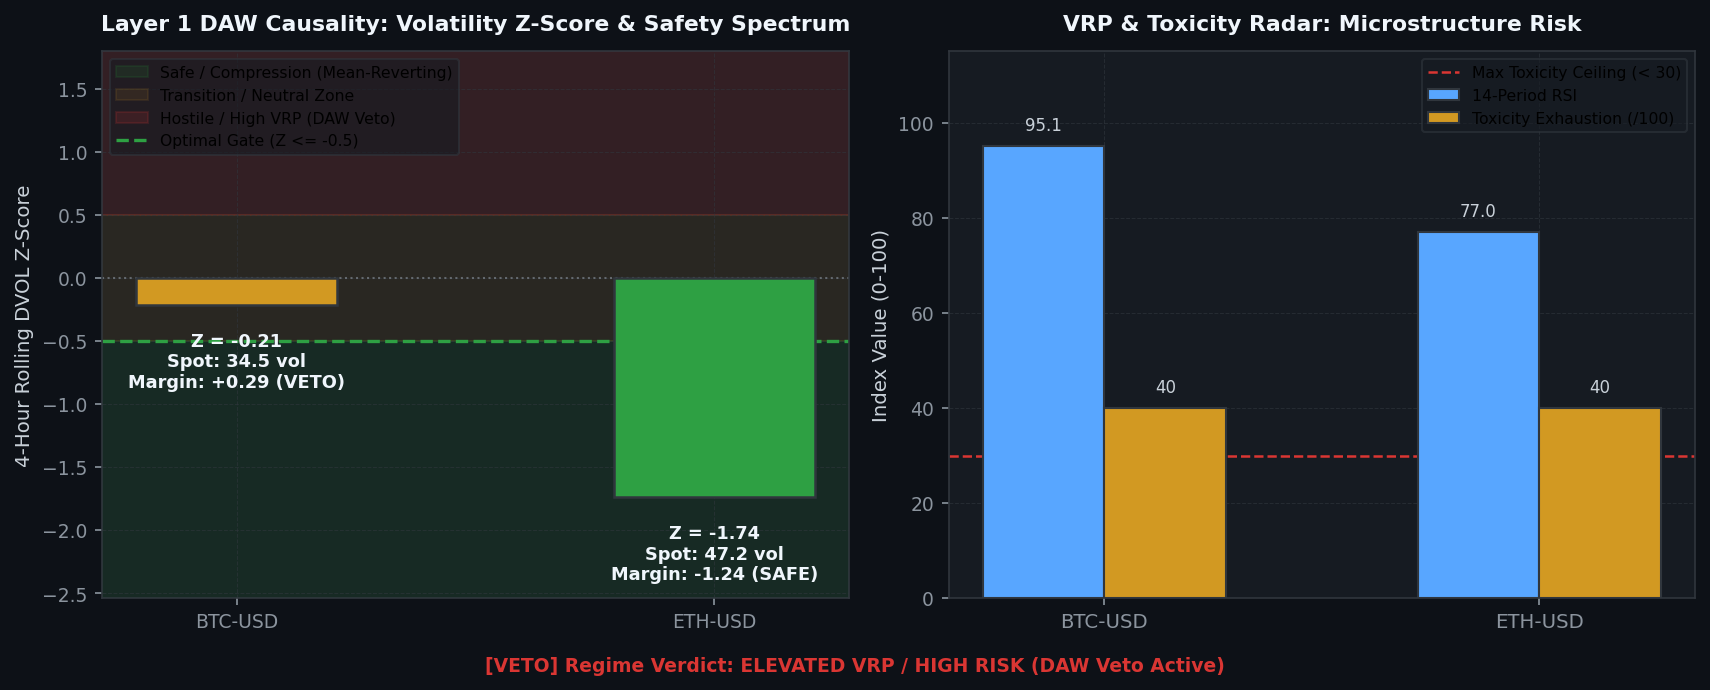
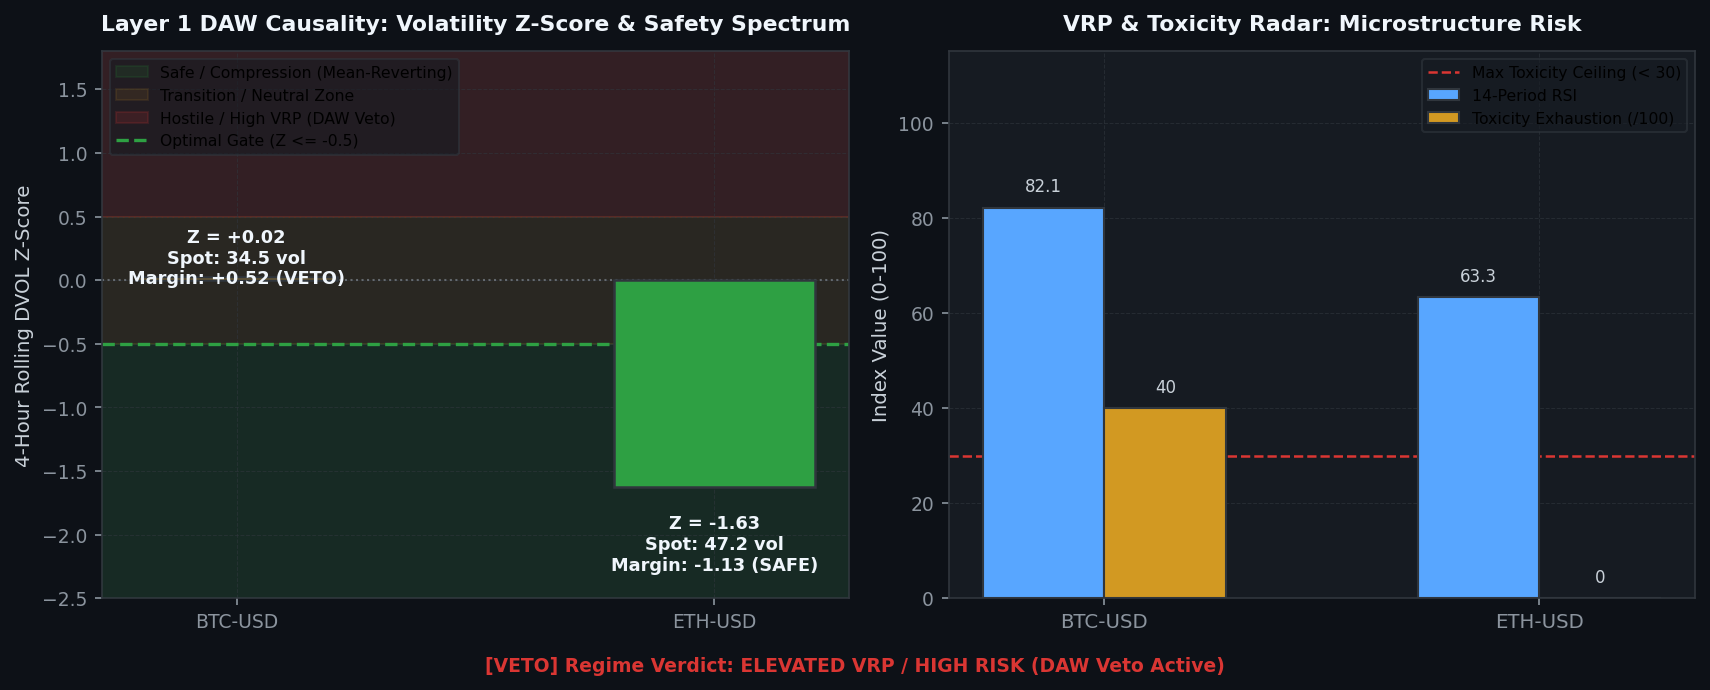
[coinbase] Hourly Status & Visual Intelligence Update: 2026-08-14 05:38:44

diff --git a/coinbase/data/hourly_status_report.md b/coinbase/data/hourly_status_report.md
@@ -1,5 +1,5 @@
 # 🛡 Unified Trading System Hourly Status & Visual Intelligence
-> **Report Generated**: `2026-08-14 05:20:14 AM PDT (2026-08-14 12:20:14 UTC)`  
+> **Report Generated**: `2026-08-14 05:38:24 AM PDT (2026-08-14 12:38:24 UTC)`  
 > **System Health**: **🟡 DEGRADED / RESTRICTED** | **Win Rate**: `0.0%` | **Completed Trades**: `0`
 
 ---
@@ -8,13 +8,13 @@ Real-time Deribit implied volatility (DVOL) proxy tracking against mathematicall
 
 | Symbol | Proxy Oracle | Live Z-Score | Optimal Limit (YSP) | Safety Margin | Live VRP | Optimal VRP (YSP) | DAW Safety Verdict |
 | :--- | :--- | :--- | :--- | :--- | :--- | :--- | :--- |
-| `AVAX-USD` | DVOL_BTC | **-0.21** | **-0.50** | **+0.29** | **+12.16** | 5.0 | 🔴 DAW VETOED |
-| `ETH-USD` | DVOL_ETH | **-1.74** | **-0.50** | **-1.24** | **+24.91** | 5.0 | 🔴 DAW VETOED |
-| `ADA-USD` | DVOL_BTC | **-0.21** | **-0.50** | **+0.29** | **+12.16** | 5.0 | 🔴 DAW VETOED |
-| `DOGE-USD` | DVOL_BTC | **-0.21** | **-0.50** | **+0.29** | **+12.16** | 5.0 | 🔴 DAW VETOED |
-| `BTC-USD` | DVOL_BTC | **-0.21** | **-0.50** | **+0.29** | **+12.16** | 5.0 | 🔴 DAW VETOED |
-| `LINK-USD` | DVOL_BTC | **-0.21** | **-0.50** | **+0.29** | **+12.16** | 5.0 | 🔴 DAW VETOED |
-| `SOL-USD` | DVOL_BTC | **-0.21** | **-0.50** | **+0.29** | **+12.16** | 5.0 | 🔴 DAW VETOED |
+| `AVAX-USD` | DVOL_BTC | **+0.02** | **-0.50** | **+0.52** | **+12.26** | 5.0 | 🔴 DAW VETOED |
+| `ETH-USD` | DVOL_ETH | **-1.65** | **-0.50** | **-1.15** | **+24.94** | 5.0 | 🔴 DAW VETOED |
+| `ADA-USD` | DVOL_BTC | **+0.02** | **-0.50** | **+0.52** | **+12.26** | 5.0 | 🔴 DAW VETOED |
+| `DOGE-USD` | DVOL_BTC | **+0.02** | **-0.50** | **+0.52** | **+12.26** | 5.0 | 🔴 DAW VETOED |
+| `BTC-USD` | DVOL_BTC | **+0.02** | **-0.50** | **+0.52** | **+12.26** | 5.0 | 🔴 DAW VETOED |
+| `LINK-USD` | DVOL_BTC | **+0.02** | **-0.50** | **+0.52** | **+12.26** | 5.0 | 🔴 DAW VETOED |
+| `SOL-USD` | DVOL_BTC | **+0.02** | **-0.50** | **+0.52** | **+12.26** | 5.0 | 🔴 DAW VETOED |
 
 ![DVOL Market Regime](./images/dvol_regime_timeline.png)
 
@@ -44,12 +44,12 @@ We hereby certify that the mission-critical algorithmic data assets uploaded by 
 
 | Status | Data Asset | Freshness / State | Details / Timestamp |
 | :---: | :--- | :--- | :--- |
-| ✅ | **Go-List JSON** | Fresh (22.19h old) | 08-13 07:08 |
-| ✅ | **TimesFM Forecasts** | Fresh (0.66h old) | 08-14 04:40 |
-| ✅ | **Holding Times config** | Fresh (43.68h old) | 08-12 09:39 |
-| ✅ | **BTC DVOL Cache** | Fresh (0.00h old) | 08-14 05:20 |
-| ✅ | **ETH DVOL Cache** | Fresh (0.00h old) | 08-14 05:20 |
-| ✅ | **Live Trading Telemetry** | Fresh (0.00h old) | 08-14 05:20 |
+| ✅ | **Go-List JSON** | Fresh (22.50h old) | 08-13 07:08 |
+| ✅ | **TimesFM Forecasts** | Fresh (0.97h old) | 08-14 04:40 |
+| ✅ | **Holding Times config** | Fresh (43.98h old) | 08-12 09:39 |
+| ✅ | **BTC DVOL Cache** | Fresh (0.00h old) | 08-14 05:38 |
+| ✅ | **ETH DVOL Cache** | Fresh (0.00h old) | 08-14 05:38 |
+| ✅ | **Live Trading Telemetry** | Fresh (0.00h old) | 08-14 05:38 |
 
 <br>
 
@@ -62,7 +62,7 @@ Layer-by-layer tick evaluation waterfall and asset-specific performance tracking
 
 | Funnel Filter Layer | Total Rejections | % of Rejections |
 | :--- | :--- | :--- |
-| Layer 1: DAW Causal Volatility Veto | `12,284` | **100.0%** |
+| Layer 1: DAW Causal Volatility Veto | `12,641` | **100.0%** |
 | Layer 2A: Vol Surface Skew & VRP Gate | `0` | **0.0%** |
 | Layer 2B: DVOL Directional Momentum Bias | `0` | **0.0%** |
 | Layer 2C: KER Efficiency Noise Filter | `0` | **0.0%** |
@@ -111,14 +111,14 @@ Live balance sheet and open maker liquidity positions from Coinbase CDP.
 ## 4. 🤖 Foundation Model MLOps & Pipeline Orchestration
 Weekly Algorithmic Mega Cap selection, Zero-shot multi-step forward return forecasts, and VSTEF parameter grid search status.
 
-- **TimesFM Forecast DB**: 🟢 Updated 0.7h ago (2026-08-14 04:40 AM PDT)
+- **TimesFM Forecast DB**: 🟢 Updated 1.0h ago (2026-08-14 04:40 AM PDT)
 - **Last Weekly VSTEF Optimization**: `2026-08-12 01:22:32 PM PDT`
-- **Next Scheduled VSTEF Run**: `2026-08-16 07:00:00 PM PDT (Monday 02:00 UTC)` (Countdown: **61.7h (2d 13h 39m)**)
+- **Next Scheduled VSTEF Run**: `2026-08-16 07:00:00 PM PDT (Monday 02:00 UTC)` (Countdown: **61.4h (2d 13h 21m)**)
 - **Promoted Parameter Gates**: $Z_{DVOL} \le -0.5$ | Holding Horizon $= 12\text{h}$
 
 ### Algorithmic Mega Cap Selection
 - **Last Run (Confirmation)**: `Never`
-- **Next Scheduled Run**: `2026-08-16 06:00:00 PM PDT (Monday 01:00 UTC)` (Countdown: **60.7h (2d 12h 39m)**)
+- **Next Scheduled Run**: `2026-08-16 06:00:00 PM PDT (Monday 01:00 UTC)` (Countdown: **60.4h (2d 12h 21m)**)
 - **Selected Mega Cap Universe**: `Could not fetch active universe from EC2`
 
 ![TimesFM Forecast Matrix](./images/timesfm_forecast_matrix.png)
@@ -132,19 +132,19 @@ Visualizing the impact of the VSTEF (Volatility-Synchronized Stop-Tightening Exe
 ## 5. 🖥 Multi-Node Infrastructure & Watchdog Matrix
 ```text
 ================================================================================
-   🛡  SFGK FUNNEL GUARDIAN WATCHDOG (HFT ONLY) |  12:20:09 PM
-   CPU:   7.8%  |  MEM:   5.2% (14.6GB / 15.4GB Free)
+   🛡  SFGK FUNNEL GUARDIAN WATCHDOG (HFT ONLY) |  12:38:24 PM
+   CPU:   8.5%  |  MEM:   5.8% (14.5GB / 15.4GB Free)
 ================================================================================
 SERVICE              | PID      | STATUS          | RESTARTS | INFO
 --------------------------------------------------------------------------------
 L3 Consumer          | 2479641  | RUNNING         | -        | Continuous Websocket Feed
-Trader AVAX-USD      | 2516326  | COOL-DOWN       | 118      | Next run in 9.7s
-Trader ETH-USD       | 2516327  | COOL-DOWN       | 118      | Next run in 9.7s
-Trader ADA-USD       | 2516328  | COOL-DOWN       | 118      | Next run in 9.7s
-Trader DOGE-USD      | 2516329  | COOL-DOWN       | 118      | Next run in 9.7s
-Trader BTC-USD       | 2516330  | COOL-DOWN       | 118      | Next run in 9.7s
-Trader LINK-USD      | 2516331  | COOL-DOWN       | 118      | Next run in 9.7s
-Trader SOL-USD       | 2516332  | COOL-DOWN       | 118      | Next run in 9.7s
+Trader AVAX-USD      | 2532404  | RUNNING         | 170      | Evaluating Funnel/Polling Order
+Trader ETH-USD       | 2532405  | RUNNING         | 170      | Evaluating Funnel/Polling Order
+Trader ADA-USD       | 2532406  | RUNNING         | 170      | Evaluating Funnel/Polling Order
+Trader DOGE-USD      | 2532407  | RUNNING         | 170      | Evaluating Funnel/Polling Order
+Trader BTC-USD       | 2532408  | RUNNING         | 170      | Evaluating Funnel/Polling Order
+Trader LINK-USD      | 2532409  | RUNNING         | 170      | Evaluating Funnel/Polling Order
+Trader SOL-USD       | 2532410  | RUNNING         | 170      | Evaluating Funnel/Polling Order
 ================================================================================
 ```
 
